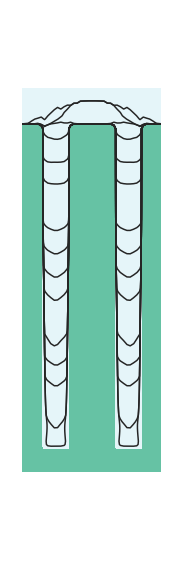
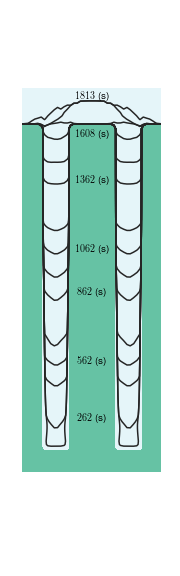
Updating Figure 4, nx=100 with contour times.

diff --git a/baseViewer.py b/baseViewer.py
@@ -9,11 +9,12 @@ from dicttable import DictTable
 import brewer2mpl
 
 class _BaseViewer(object):
-    def plot(self, indices=[0], filename=None, times=None, cutoffvalue=-1, mirror=False, cutoff=True, labels=False):
+    def plot(self, indices=[0], filename=None, times=None, cutoffvalue=-1, mirror=False, cutoff=True, labels=False, show=True):
         self.mirror = mirror
         self.cutoff = cutoff
         self.cutoffvalue = cutoffvalue
         self.labels = labels
+        self.show = show
         self.plotSetup(indices=indices, times=times, cutoff=cutoff)
         self.plotSave(filename)
 
@@ -23,7 +24,7 @@ class _BaseViewer(object):
     def plotSave(self, filename):
         if filename:
             plt.savefig(filename)
-        else:
+        elif self.show:
             plt.show()
 
 
@@ -96,8 +97,9 @@ class _BaseSingleViewer(_BaseViewer):
 
         #set2 = brewer2mpl.get_map('Set2', 'qualitative', 8).mpl_colors
         set1 = brewer2mpl.get_map('BuGn', 'sequential', 9).mpl_colors
-        rect = plt.Rectangle((xmin, ymin), xmax - xmin, (-featureDepth * scale - ymin) - delta * 0.05, facecolor=set1[4], linewidth=0)
-        self.ax.add_patch(rect)
+        if not self.mirror:
+            rect = plt.Rectangle((xmin, ymin), xmax - xmin, (-featureDepth * scale - ymin) - delta * 0.05, facecolor=set1[4], linewidth=0)
+            self.ax.add_patch(rect)
 
         self.ax.set_ylim(ymin, ymax)
         #self.ax.set_ylabel(r'$y$ ($\micro\metre$)')

diff --git a/contourViewer.py b/contourViewer.py
@@ -23,9 +23,13 @@ class ContourViewer(_BaseSingleViewer):
 
         Greys = brewer2mpl.get_map('Greys', 'sequential', 9).mpl_colors
 
+        self.elapsedTimes = [0.]
+
         for index in indices[1:]:
             phi = self.data[index]['distance']
             phi = self.flip(phi, scale)
+            
+            self.elapsedTimes.append(self.data[index, 'elapsedTime'])
 
             if self.mirror:
                 phi = np.concatenate((phi[::-1], phi))
